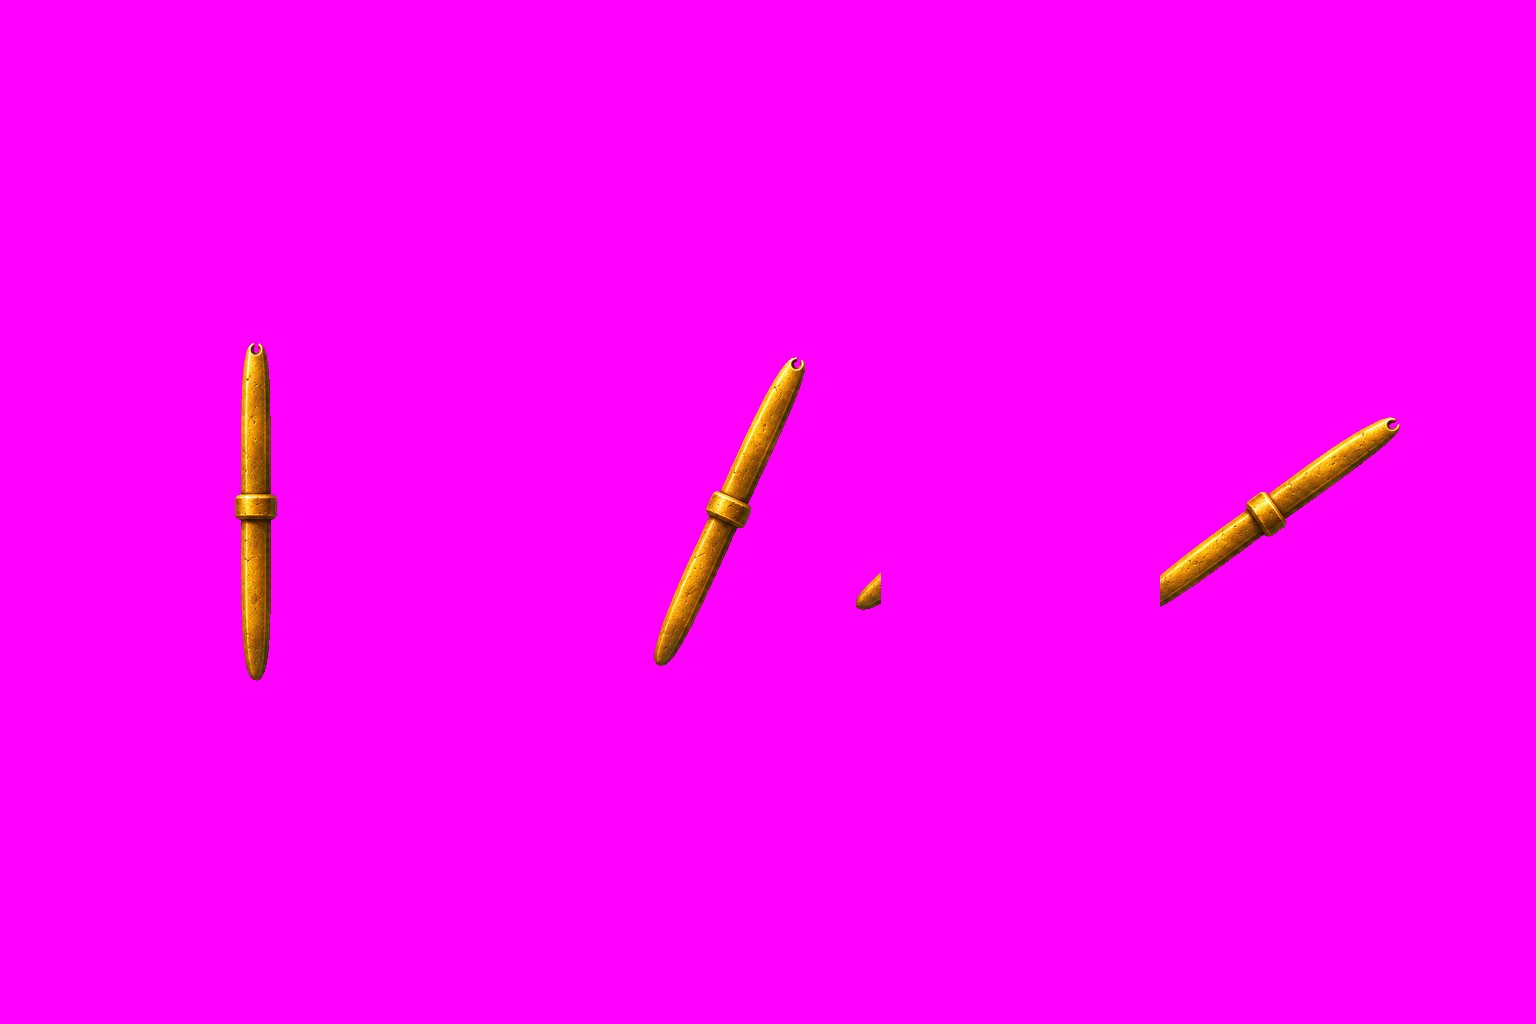
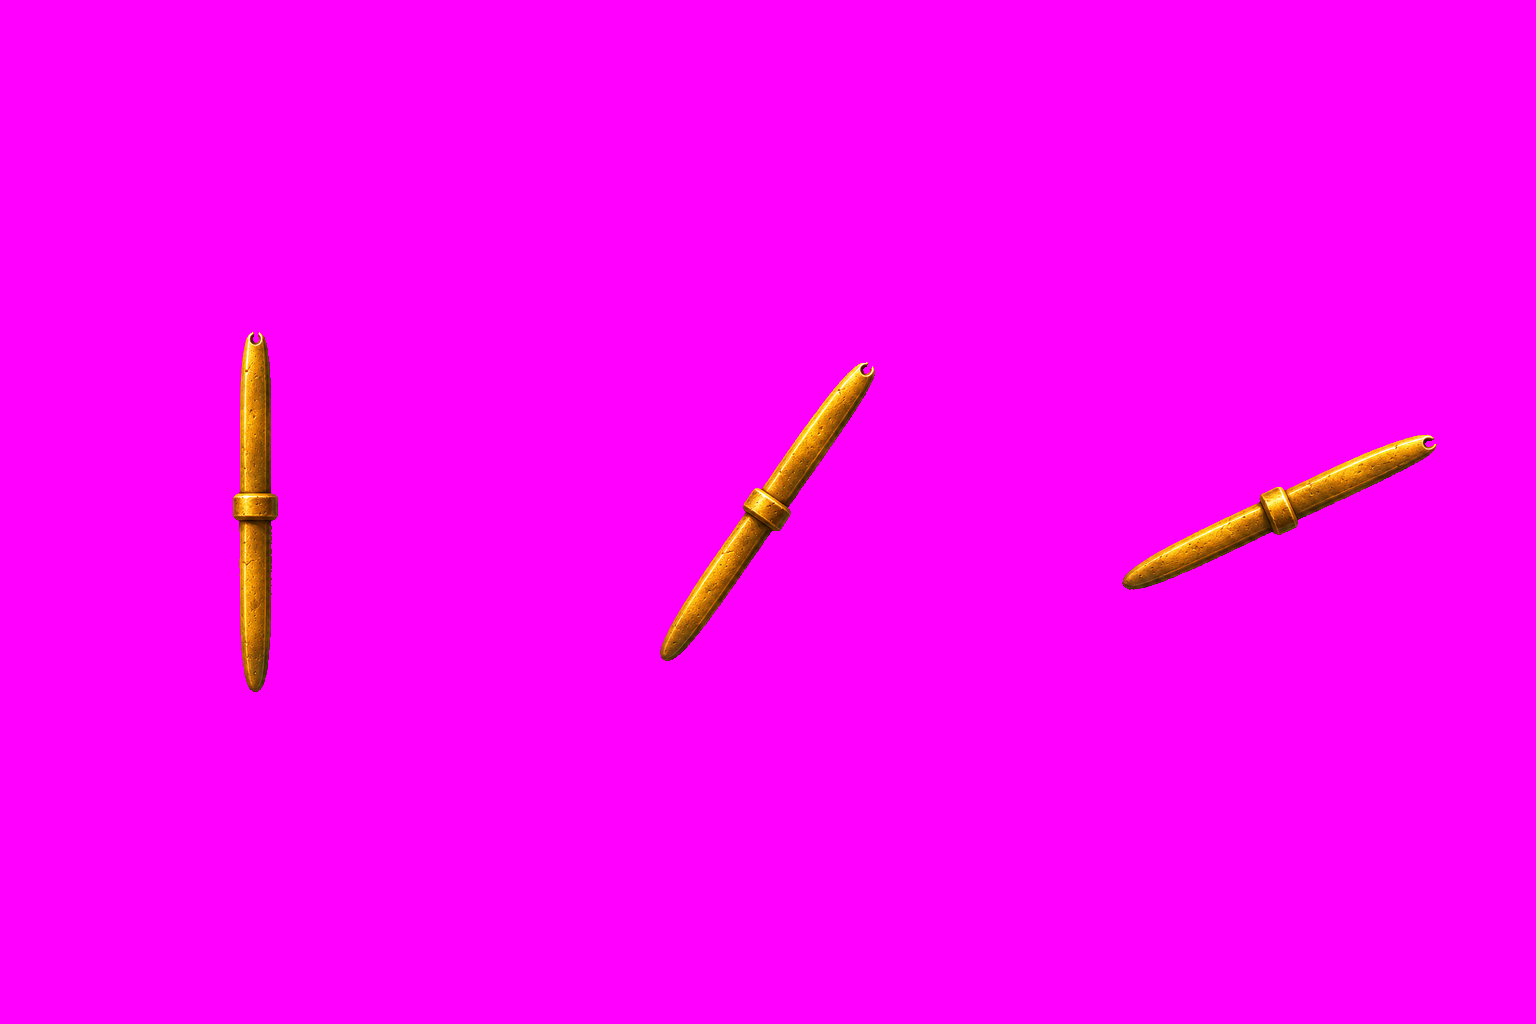
П29: ключ во всех трёх положениях целый, связка пришла

diff --git a/tools/art_sources/inbox/P29_key_end_on/NOTES_FROM_GPT.md b/tools/art_sources/inbox/P29_key_end_on/NOTES_FROM_GPT.md
@@ -1,0 +1,8 @@
+# П29 · ключ вдоль оси
+
+- `key_end_on.png` — три положения узкой головки ребром, с воротником и выемкой под кольцо. Три кадра нарисованы отдельно со светом сверху слева. Углы доведены по главной оси силуэта до 0°, 35° и 65°.
+- `key_ring_end_on.png` — кольцо ребром, запасной ключ и пустая кожаная бирка.
+
+Слабые места: воротник немного смещается относительно центра силуэта между кадрами, блик и форма наконечника слегка различаются. Кольцо вытянуто. Посадку на замок и качание в игре не проверял.
+
+По правилам запуска лист сохранён в 3:2 (три ячейки 512×1024), связка в 2:3 (512×768). В брифе указаны 3:1 и 1:2 соответственно.

diff --git a/tools/art_sources/FEEDBACK_FOR_GPT.md b/tools/art_sources/FEEDBACK_FOR_GPT.md
@@ -38,5 +38,5 @@ What to change: cell 3: clear glass with a soot smear inside and a visibly BROKE
 Keep: all other cells unchanged (redraw the whole sheet, but only these two cells may differ).
 GPT: done 14.11.2026, files: contactor_parts_v2.png
 
-## P29 / key_end_on.png  [open]
+## P29 / key_end_on.png  [closed 16.11: redone in place, all three keys whole]
 The third cell (65°) is broken: the key is longer than its cell, its lower end is cut off and a piece of it lies in the second cell (around x 855–880, y 575–610). Please redo the sheet as key_end_on_v2.png: the same three keys (0°, 35°, 65°), each WHOLE inside its own 512×512 cell with at least 40 px free on every side (make the key a little shorter if needed, the same length in all three), axis at the cell centre, nothing crossing into a neighbour cell. Canvas exactly 1536×512.
